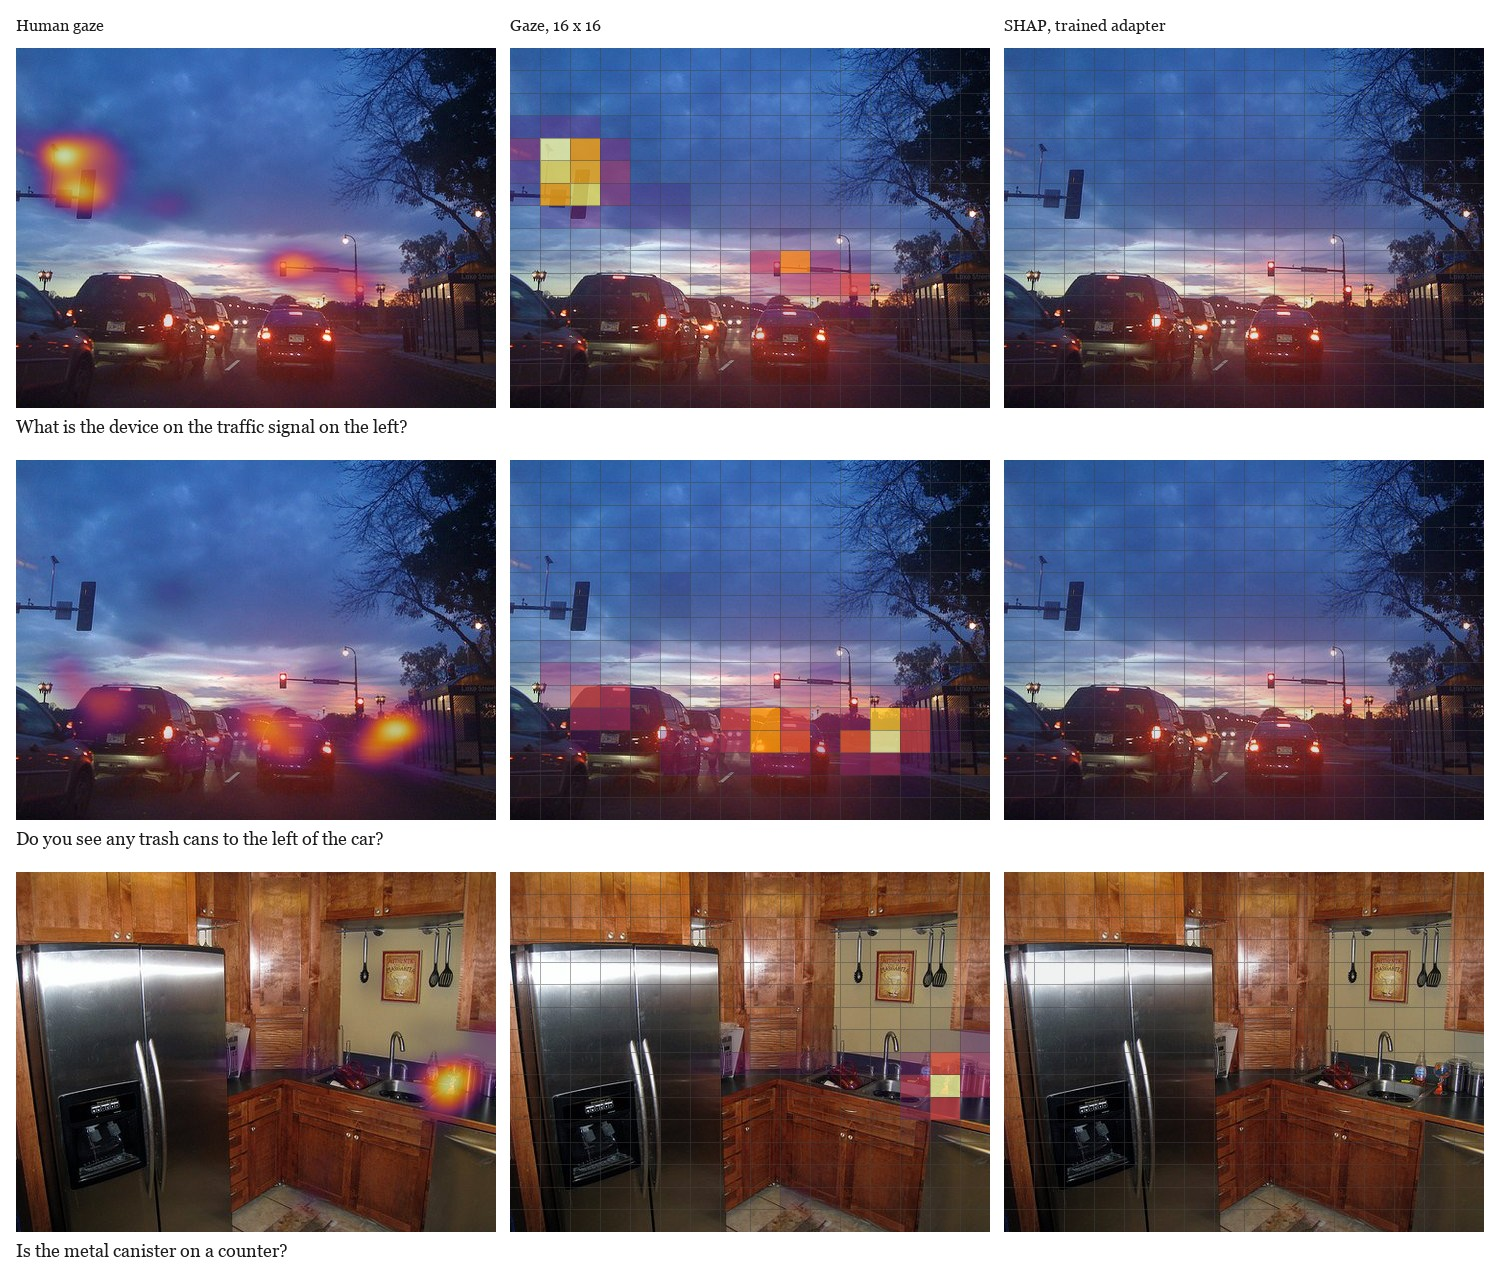
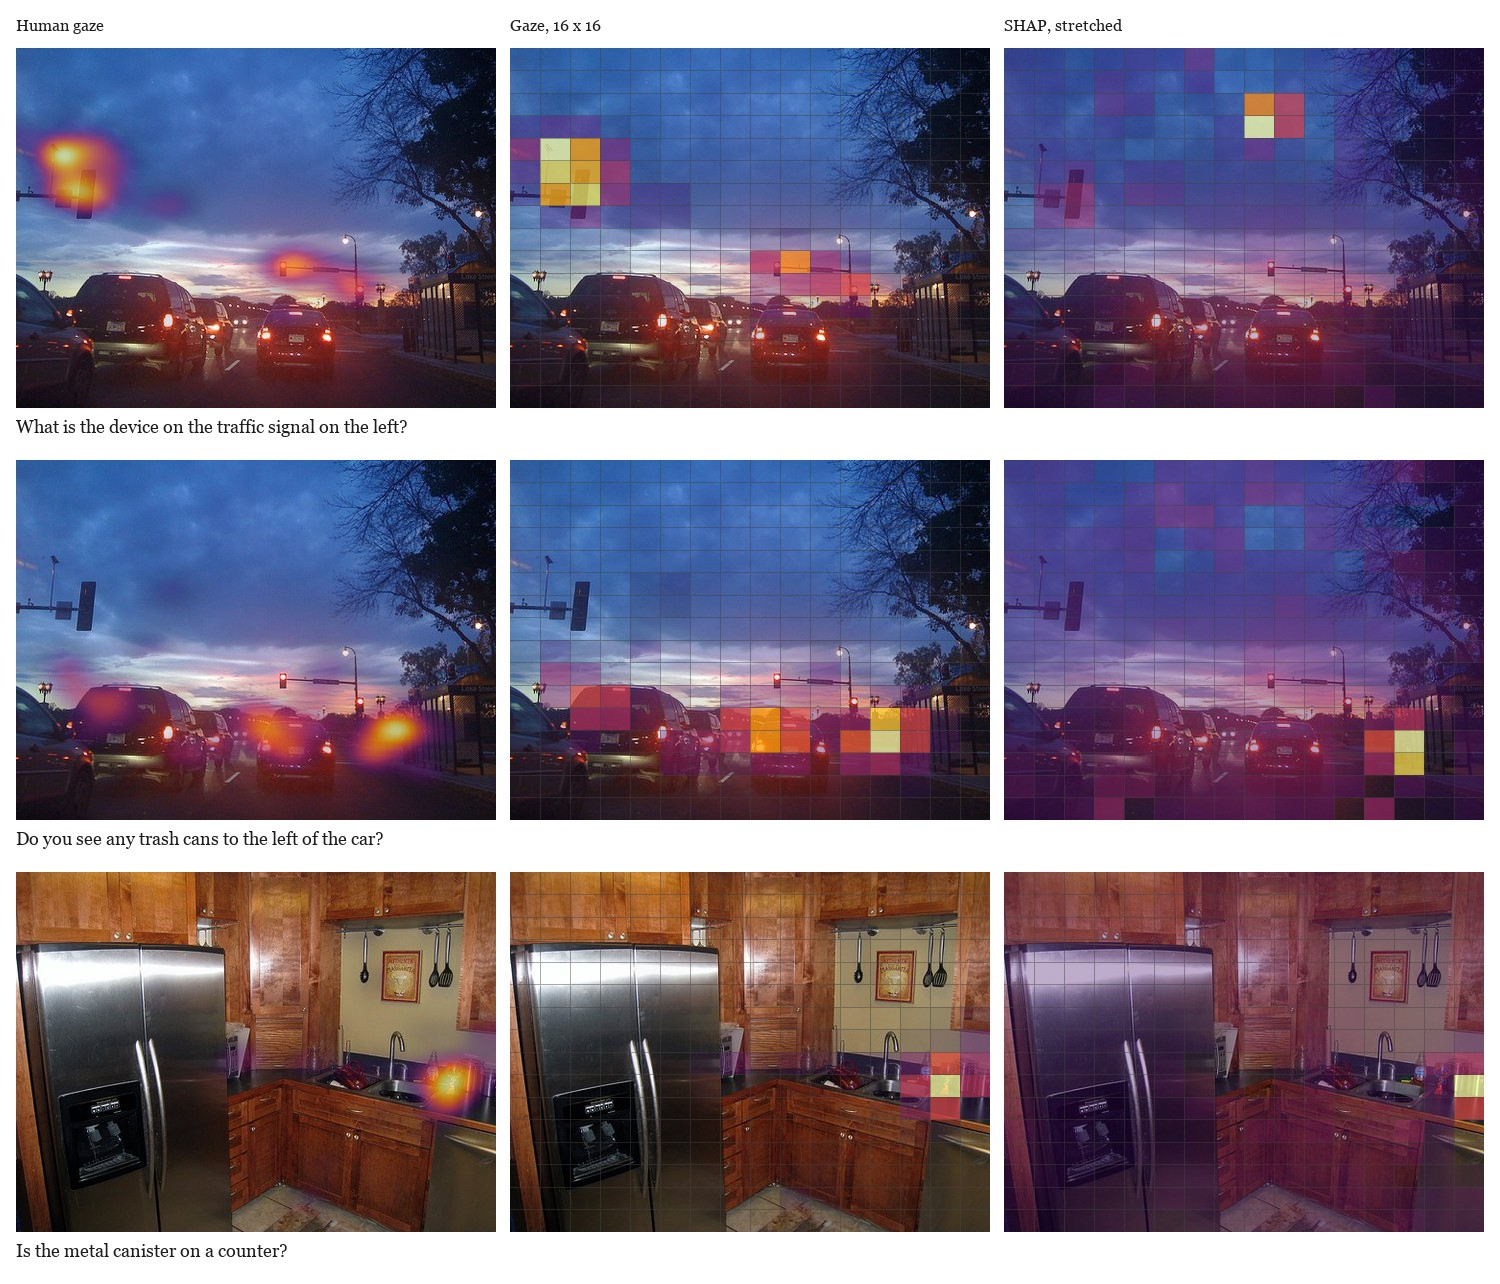
Stretch the SHAP column so its peak is visible.
On the gaze scale the maps are nearly uniform and the heatmap disappears.

diff --git a/README.md b/README.md
@@ -14,9 +14,9 @@ The first run attributes the logit of the first answer token, at the position ri
 
 The second run keeps the same loss, the same LoRA targets, and the same 64–128 visual tokens, and attributes the sum of the logits over every token of the teacher-forced answer. Correlation rises to 0.122, close to the centre prior’s 0.136. AUC-Judd falls to 0.529. KL stays at 1.70. The adapters can move the map. They do not put the fixation locations at the top of the ranking.
 
-The figure is the second run, the adapter at the end of that run, on three questions. Left is the fixation density from seconds 1–3. The middle column is that density pooled to the 16×16 grid the loss sees. Right is the SHAP map for the sum of the answer logits. The middle and right columns share one colour scale, set by the brightest gaze cell of that question. A uniform cell holds 0.0039 of the mass. These SHAP maps peak between 0.005 and 0.011, so the right column stays faint. On the three questions AUC-Judd is 0.664, 0.540 and 0.564. The validation mean over 155 questions is 0.529.
+The figure is the second run, the adapter at the end of that run, on three questions. Left is the fixation density from seconds 1–3. The middle column is that density pooled to the 16×16 grid the loss sees. Right is the SHAP map for the sum of the answer logits. A uniform cell holds 0.0039 of the mass. These three maps peak at 0.006, 0.005 and 0.011, only 1.3 to 2.7 times a uniform cell, so on the gaze scale the right column is blank. It is stretched from its own coldest cell to its own hottest cell. The colour there is the location of the peak, not its strength. The peaks miss the gaze: sky above the road, the right edge of the traffic, the right edge of the kitchen. On the three questions AUC-Judd is 0.664, 0.540 and 0.564. The validation mean over 155 questions is 0.529.
 
-![Three questions in three columns: smooth human gaze, the same gaze on a 16 by 16 grid, and the trained SHAP map.](site/figures/gaze-shap.jpg)
+![Three questions in three columns: smooth human gaze, the same gaze on a 16 by 16 grid, and the trained SHAP map stretched to its own range.](site/figures/gaze-shap.jpg)
 
 ## How a map was produced
 
